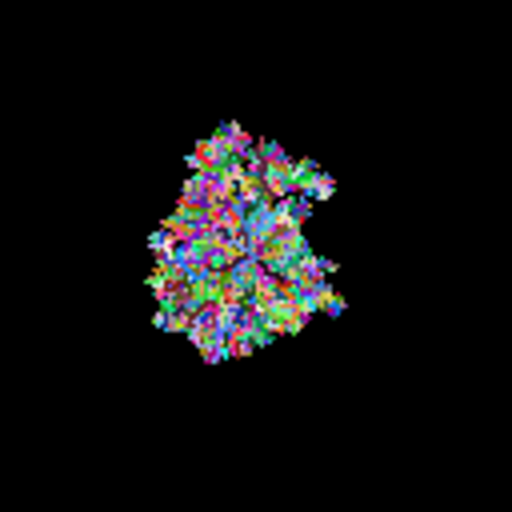
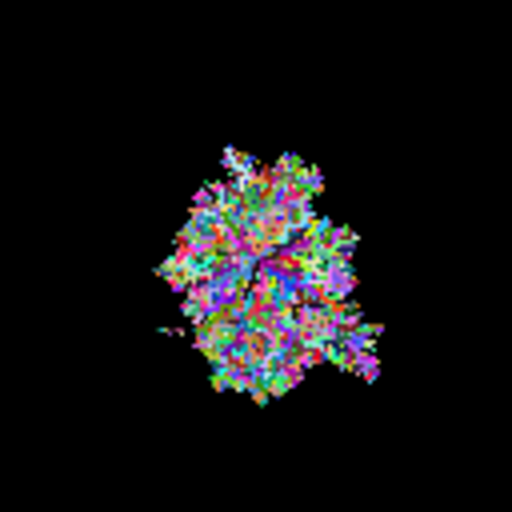
feat(e3): add longest corridor length to stats

Changed region(s): [[0.2812, 0.2188, 0.75, 0.8125]]

diff --git a/e3/main.cpp b/e3/main.cpp
@@ -13,15 +13,16 @@ const int WIDTH = 128;
 const int HEIGHT = 128;
 
 std::vector<std::vector<int>> maze(HEIGHT, std::vector<int>(WIDTH, 0));
-std::mutex maze_mutex;
+std::mutex maze_mutex, max_length_mutex;
 std::atomic<int> thread_count(1), descendant_count(0), corridor_count(0);
+std::atomic<int> max_path_length(0);
 
 struct Position {
   int x;
   int y;
 };
 
-void generate_maze(const Position &pos, const int &thread_id) {
+void generate_maze(const Position &pos, const int &thread_id, int path_length) {
   std::vector<Position> directions = {
       {0, -1}, // left
       {0, 1},  // right
@@ -44,7 +45,7 @@ void generate_maze(const Position &pos, const int &thread_id) {
         if (maze[new_pos.x][new_pos.y] == 0) {
           maze[new_pos.x][new_pos.y] = thread_id;
           can_move = true;
-            corridor_count++;
+          corridor_count++;
         }
       }
 
@@ -63,23 +64,31 @@ void generate_maze(const Position &pos, const int &thread_id) {
                   int new_thread_id = ++thread_count;
                   maze[fork_pos.x][fork_pos.y] = new_thread_id;
                   can_fork = true;
-                    descendant_count++;
-                    corridor_count++;
+                  descendant_count++;
+                  corridor_count++;
                 }
               }
               if (can_fork) {
-                std::thread(generate_maze, fork_pos, thread_count.load()).detach();
+                std::thread(generate_maze, fork_pos, thread_count.load(),
+                            path_length + 1)
+                    .detach();
               }
             }
           }
         }
         // Continue moving in the desired direction
-        generate_maze(new_pos, thread_id);
+        generate_maze(new_pos, thread_id, path_length + 1);
         return;
       }
     }
   }
   // If the thread cannot move on, it terminates
+  {
+    std::unique_lock<std::mutex> lock(max_length_mutex);
+    if (path_length > max_path_length) {
+      max_path_length = path_length;
+    }
+  }
 }
 
 void save_maze_to_ppm(const std::string &filename) {
@@ -102,7 +111,7 @@ int main() {
   Position start_pos = {HEIGHT / 2, WIDTH / 2};
   maze[start_pos.x][start_pos.y] = thread_count.load();
   corridor_count++;
-  std::thread main_thread(generate_maze, start_pos, thread_count.load());
+  std::thread main_thread(generate_maze, start_pos, thread_count.load(), 1);
   main_thread.join();
 
   save_maze_to_ppm("maze.ppm");
@@ -110,9 +119,8 @@ int main() {
   std::cout << "Maze have been saved to maze.ppm\n"
             << "\n=== Stats ===\n"
             << "Number of descendants (threads created): " << descendant_count
-            << '\n'
-            << "Number of corridors (cells visited): " << corridor_count
-            << '\n';
+            << "\nNumber of corridors (cells visited): " << corridor_count
+            << "\nLongest corridor length: " << max_path_length << '\n';
 
   return 0;
 }
